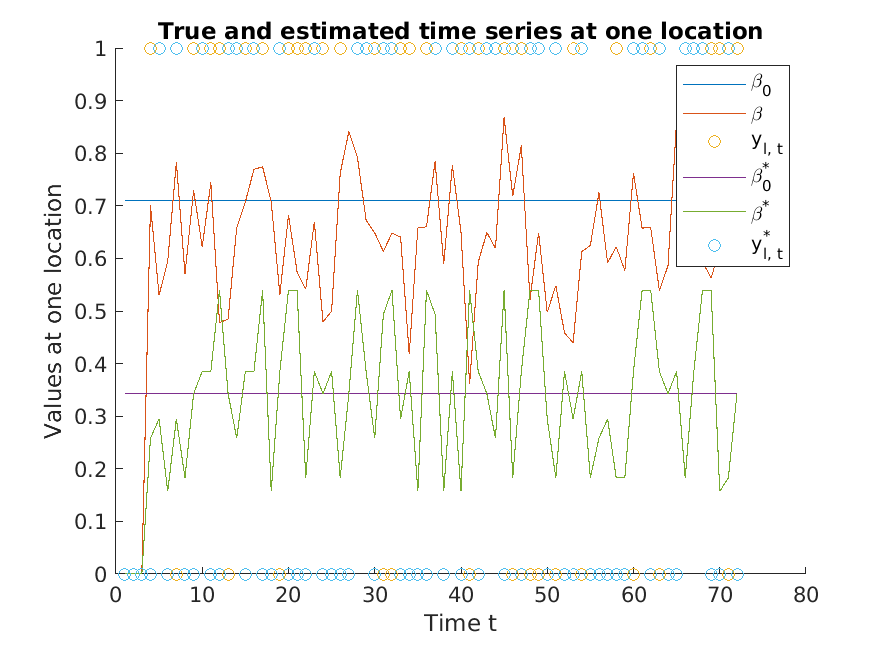
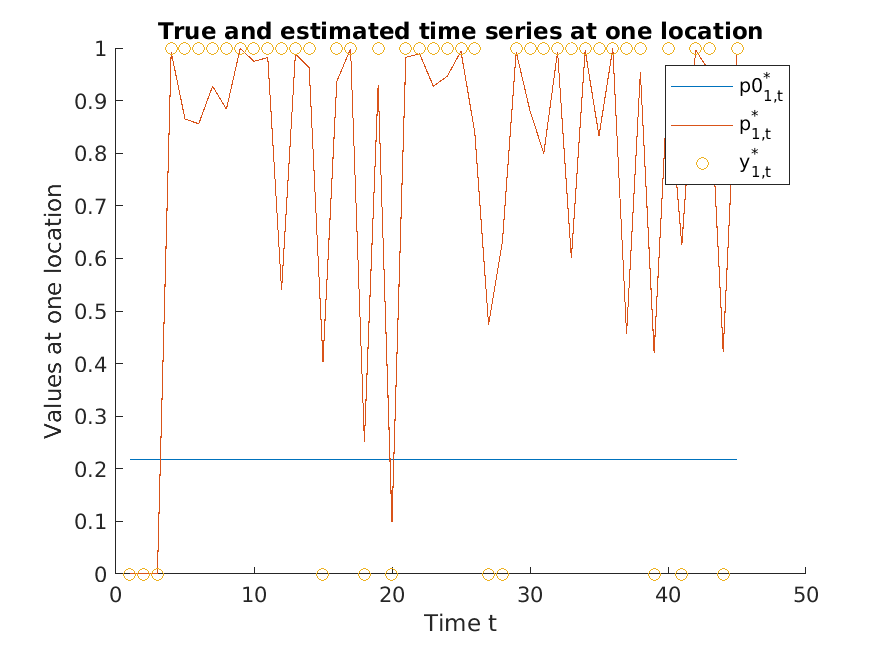
experiments fixed

diff --git a/matlab_scripts/horizon_tests.m b/matlab_scripts/horizon_tests.m
@@ -5,14 +5,15 @@ function horizon_tests
     % Memory depth.
     d = 3;
     % The length of the time horizon is d*periods+1.
-    periods = 100;
+    periods = 9;
     % Dimensions of 2-D space at any time instance.
     row = 10;
     col = row;
     % Determine density.
     density = 0.1;
     % Generating Bernouilli time series of N time instances and L locations.
-    [time_horizon, N, L, true_theta, true_b, init_grids] = generate_series(row, col, d, periods, density);
+    [time_horizon, N, L, true_theta, theta0] = generate_series(row, col, d, periods, density);
+    compare_density(L, N, d, true_theta, theta0, 3);
 end
 
 function [] = color_plot(v_true,v_pred,n)
@@ -41,4 +42,51 @@ function [] = color_plot(v_true,v_pred,n)
     caxis([bottom top]);
     colorbar;
     saveas(f, 'color_maps', 'png');
+end
+
+function [] = compare_density(L, N, d, theta, theta0, loc)
+    % For plotting.
+    N = N+int32(N/2);
+    norm_X = zeros(1,N);
+    norm_probability = zeros(1,N);
+    % Initialiazing the time horizon.
+    time_horizon = zeros(N,L);
+    for s = (1:d)
+        x = normrnd(0, 1, 1, L);
+        x(x>=0) = 1;
+        x(x<0) = 0;
+        for l = 1:L
+            time_horizon(s,:) = x;
+        end
+    end
+    % Generate time series.
+    for s = (d+1):(N)
+        % Predictor X of dimension d*L.
+        X = time_horizon((s-d):(s-1),:);
+        X = reshape(X.',1,[]);
+        for l = 1:L
+            p = sigmoid(theta0(l) + dot(X, theta(l,:)));
+            time_horizon(s,l) = Bernouilli_draw(p);
+            % Calculating the probabilities for one location.
+            if l == loc
+                norm_probability(1,s) = p;
+                norm_X(1,s) = time_horizon(s,l);
+            end
+        end
+    end
+    % Plotting
+    time = 1:N;
+    base_proba = sigmoid(theta0(loc));
+    norm_theta0 = repelem(base_proba, N);
+    f0 = figure('visible','on');
+    hold on;
+    plot(time, norm_theta0);
+    plot(time, norm_probability);
+    scatter(time, norm_X);
+    xlabel('Time t');
+    ylabel('Values at one location');
+    title('True and estimated time series at one location');
+    legend('p0_{1,t}^*','p_{1,t}^*','y_{1,t}^*');
+    saveas(f0, 'predicted_true_series', 'png');
+    hold off;
 end

diff --git a/matlab_scripts/generate_series.m b/matlab_scripts/generate_series.m
@@ -1,10 +1,9 @@
 % Generate time series with d*periods+1 time steps.
-function [time_horizon, N, L, theta, theta0, init_grids] = generate_series(rows, cols, d, periods, density)
+function [time_horizon, N, L, theta, theta0] = generate_series(rows, cols, d, periods, density)
     % Number of locations.
     L = rows*cols;
     N = d + d*periods;
     % Initialiazing the time horizon.
-    init_grids = zeros(d,L);
     time_horizon = zeros(N,L);
     % Create a random Bernoulli process grid at the initial time strech.
     for s = (1:d)
